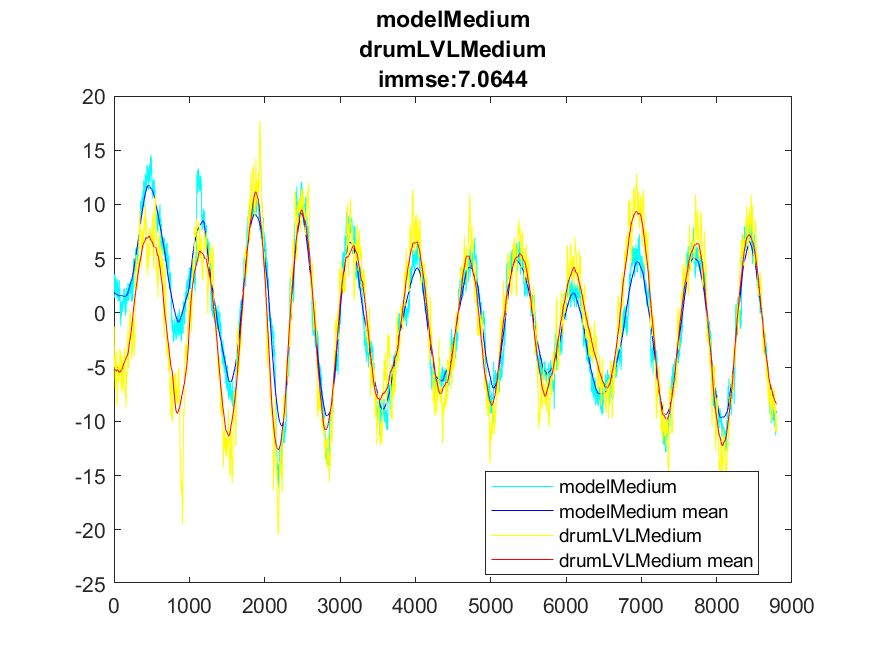
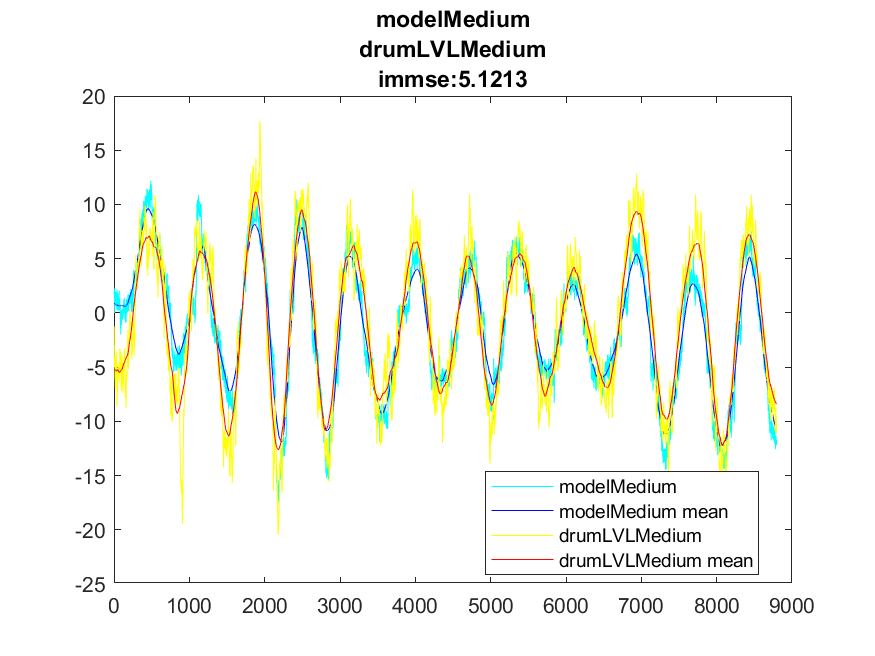
modele all

diff --git a/modelsAll.m b/modelsAll.m
@@ -149,6 +149,9 @@ plotTwoVariables(modelPlus,drumLVLPlus)
 
 function plotVariable(variable)
     variableMean=movmean(variable,200);
+    
+
+    
     figure
     plot(variable,'c')
     hold on
@@ -156,12 +159,18 @@ function plotVariable(variable)
     title(inputname(1));
     legend(inputname(1),inputname(1)+ " mean", 'Location','best')
     hold off
+    
+    saveas(gcf,"docs/models-all/"+inputname(1)+".png")
 end
 
 function plotTwoVariables(variable1, variable2)
     variableMean1=movmean(variable1,200);
     variableMean2=movmean(variable2,200);
-convertCharsToStrings(inputname(1))
+    
+    errorLength=min([length(variableMean1),length(variableMean2)]);
+    error=immse(variableMean1(1:errorLength),variableMean2(1:errorLength));
+    
+    convertCharsToStrings(inputname(1))
     figure
     plot(variable1,'c')
     hold on
@@ -170,7 +179,11 @@ convertCharsToStrings(inputname(1))
     plot(variable2,'y')
     hold on
     plot(variableMean2,'r')
-    title(convertCharsToStrings(inputname(1))+newline+ convertCharsToStrings(inputname(2)));
+    title(convertCharsToStrings(inputname(1))+newline+ convertCharsToStrings(inputname(2))+newline+...
+          "immse:" + error);
     legend(inputname(1),inputname(1)+ " mean",inputname(2),inputname(2)+ " mean", 'Location','best')
     hold off
+    
+    saveas(gcf,"docs/models-all/"+inputname(1)+inputname(2)+".png")
+
 end
